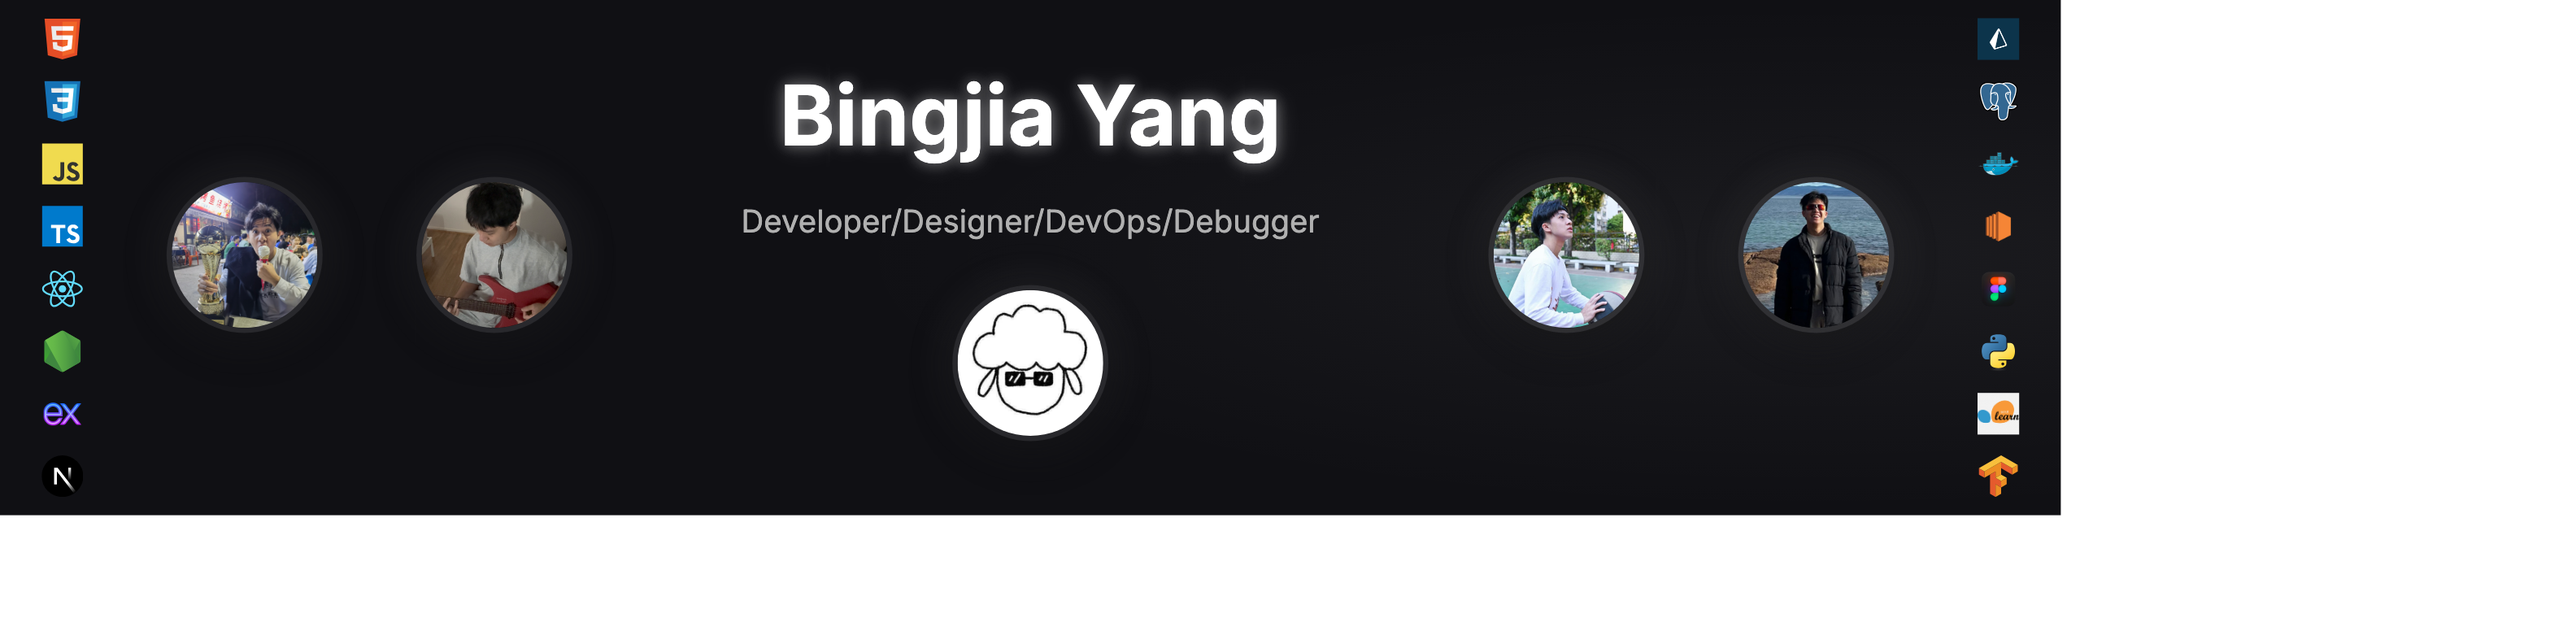
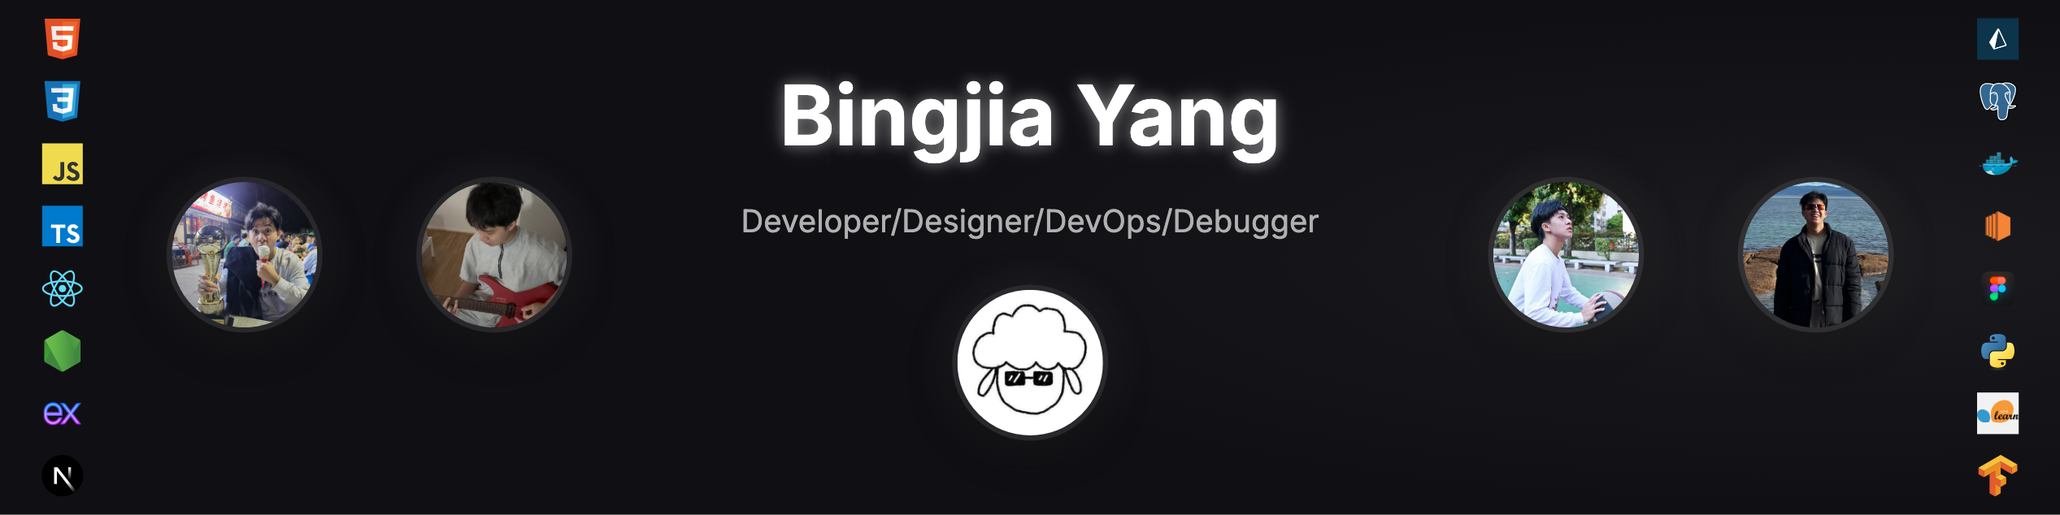
optimize the generator and generate cover image

diff --git a/generate-banner.js b/generate-banner.js
@@ -39,10 +39,10 @@ async function generateBanner() {
 
     console.log('📸 开始截图...');
 
-    // 截图并保存
-    await page.screenshot({
+    // 截图并保存 - 只截取container区域
+    const containerElement = await page.$('.container');
+    await containerElement.screenshot({
       path: 'linkedin-banner.png',
-      fullPage: false,
       type: 'png'
     });
 
